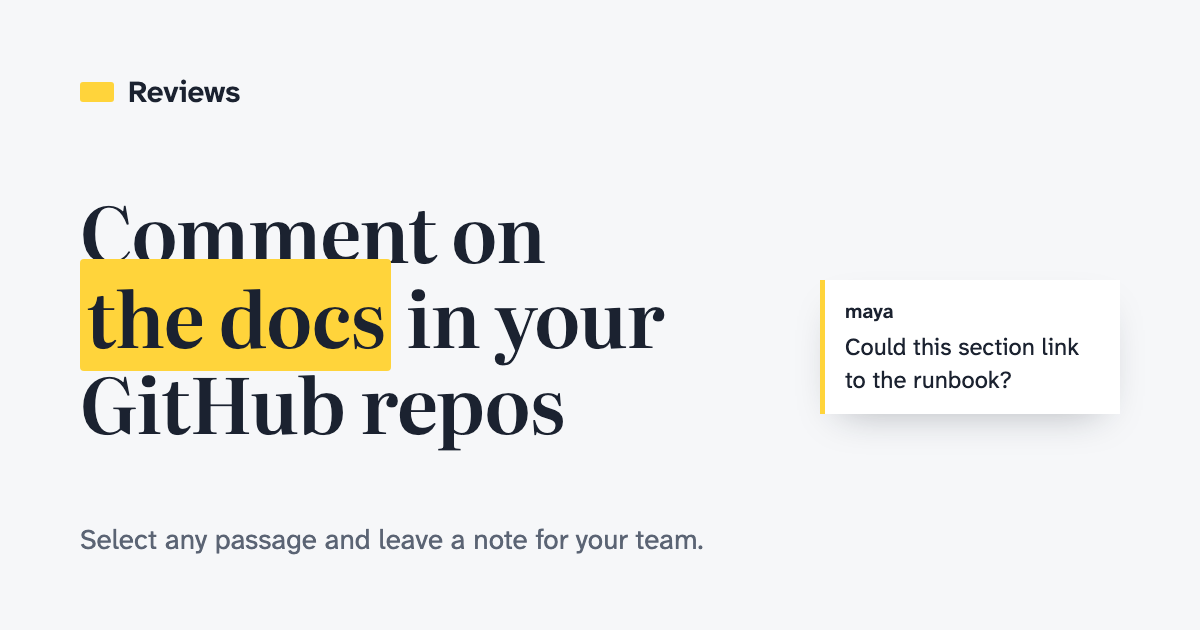
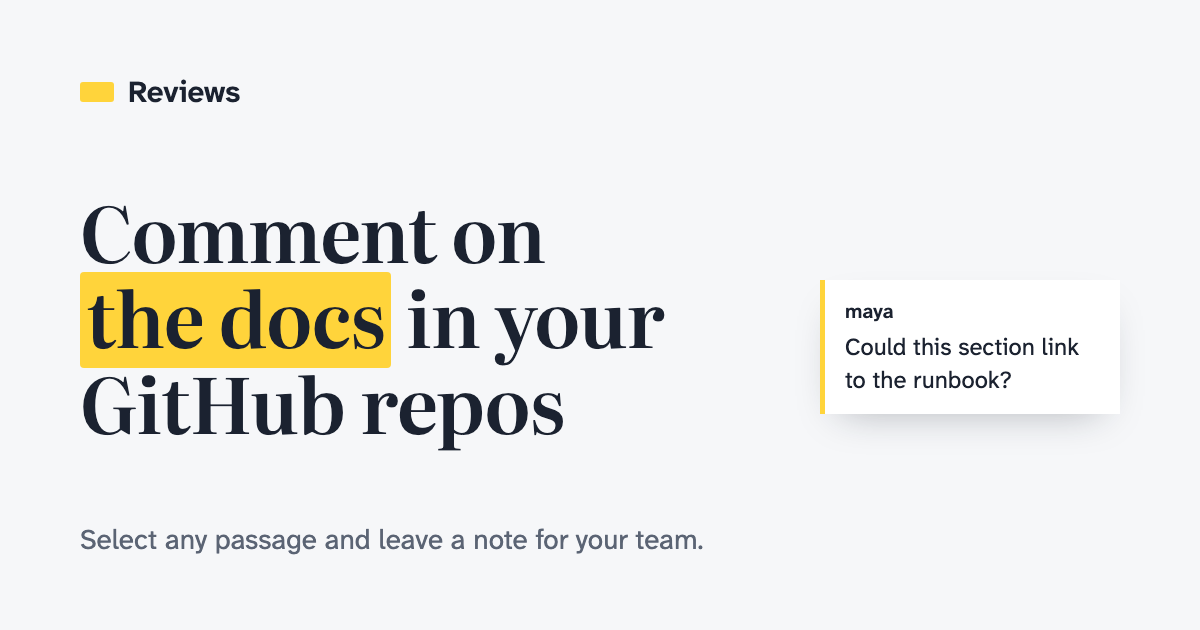
Keep the share card highlight off the line above (#6)
Literata's content area runs well above its ascenders, so the mark's
background reached into the descenders of "Comment on". Paint the
highlight as a pseudo-element that starts just over the letter tops,
and regenerate og-image.png.

Version the og:image URL so link previews fetch the new card instead
of a cached one.

Changed region(s): [[0.0617, 0.3921, 0.3392, 0.4524], [0.0617, 0.573, 0.3083, 0.6032]]

diff --git a/src/routes/__root.tsx b/src/routes/__root.tsx
@@ -43,7 +43,8 @@ export const Route = createRootRouteWithContext<RouterContext>()({
         { property: 'og:title', content: 'Reviews' },
         { property: 'og:description', content: DESCRIPTION },
         { property: 'og:url', content: new URL(matches.at(-1)?.pathname ?? '/', origin).toString() },
-        { property: 'og:image', content: new URL('/og-image.png', origin).toString() },
+        // Bump v after regenerating the card. Link previews cache images by URL.
+        { property: 'og:image', content: new URL('/og-image.png?v=2', origin).toString() },
         { property: 'og:image:width', content: '1200' },
         { property: 'og:image:height', content: '630' },
         { property: 'og:image:alt', content: 'Reviews: comment on the docs in your GitHub repos' },

diff --git a/scripts/og-image.html b/scripts/og-image.html
@@ -54,11 +54,22 @@
         letter-spacing: -0.01em;
       }
       mark {
-        border-radius: 4px;
+        position: relative;
+        isolation: isolate;
         padding: 0 6px;
-        background: #ffd43b;
+        background: none;
         color: inherit;
         white-space: nowrap;
+      }
+      /* Literata's content area runs well above its ascenders, so a plain background
+         reaches into the line above. Paint the highlight from just over the letter tops. */
+      mark::before {
+        content: '';
+        position: absolute;
+        inset: 0.16em 0 0.04em;
+        z-index: -1;
+        border-radius: 4px;
+        background: #ffd43b;
       }
       .note {
         margin-top: 92px;
